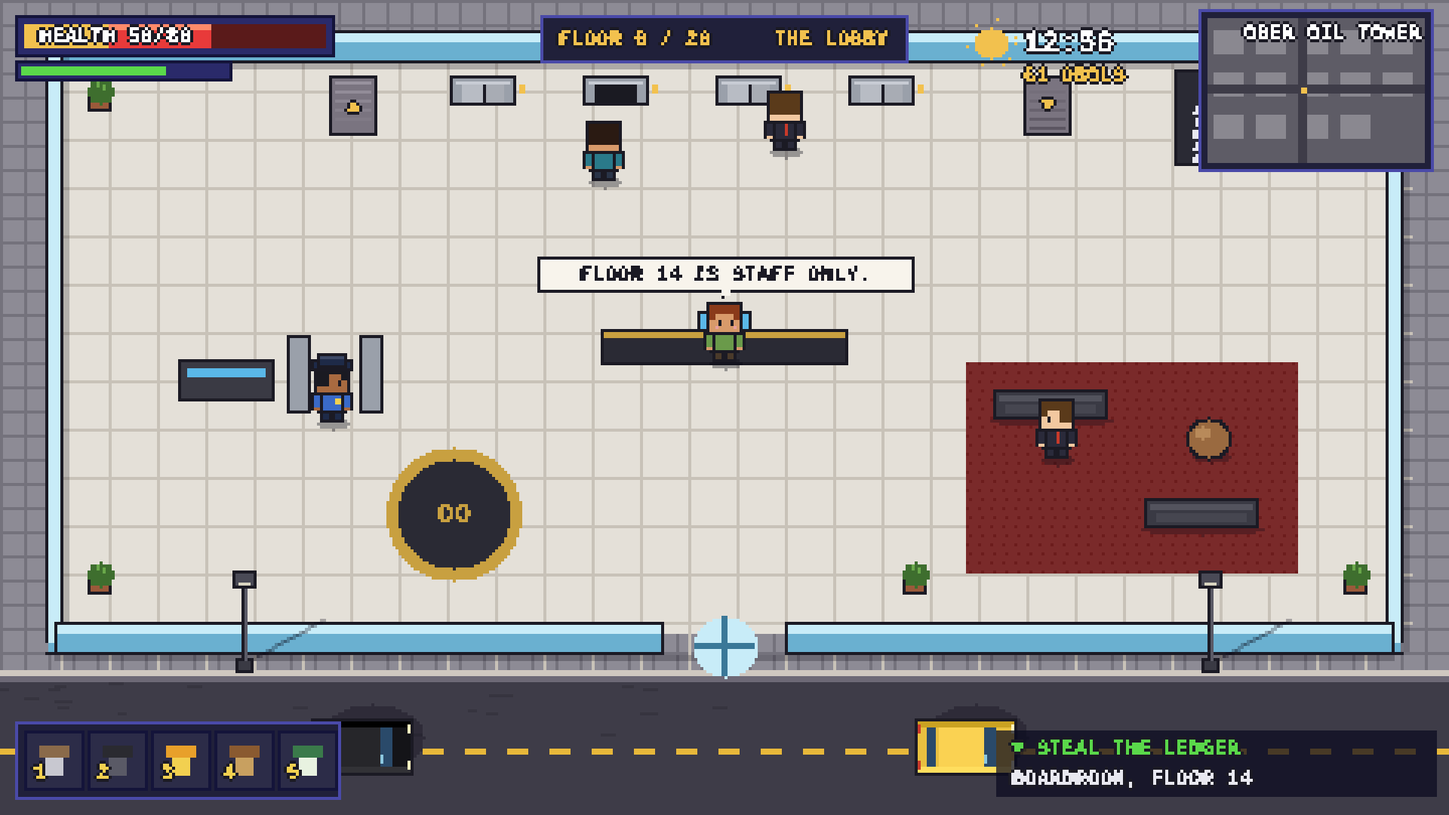
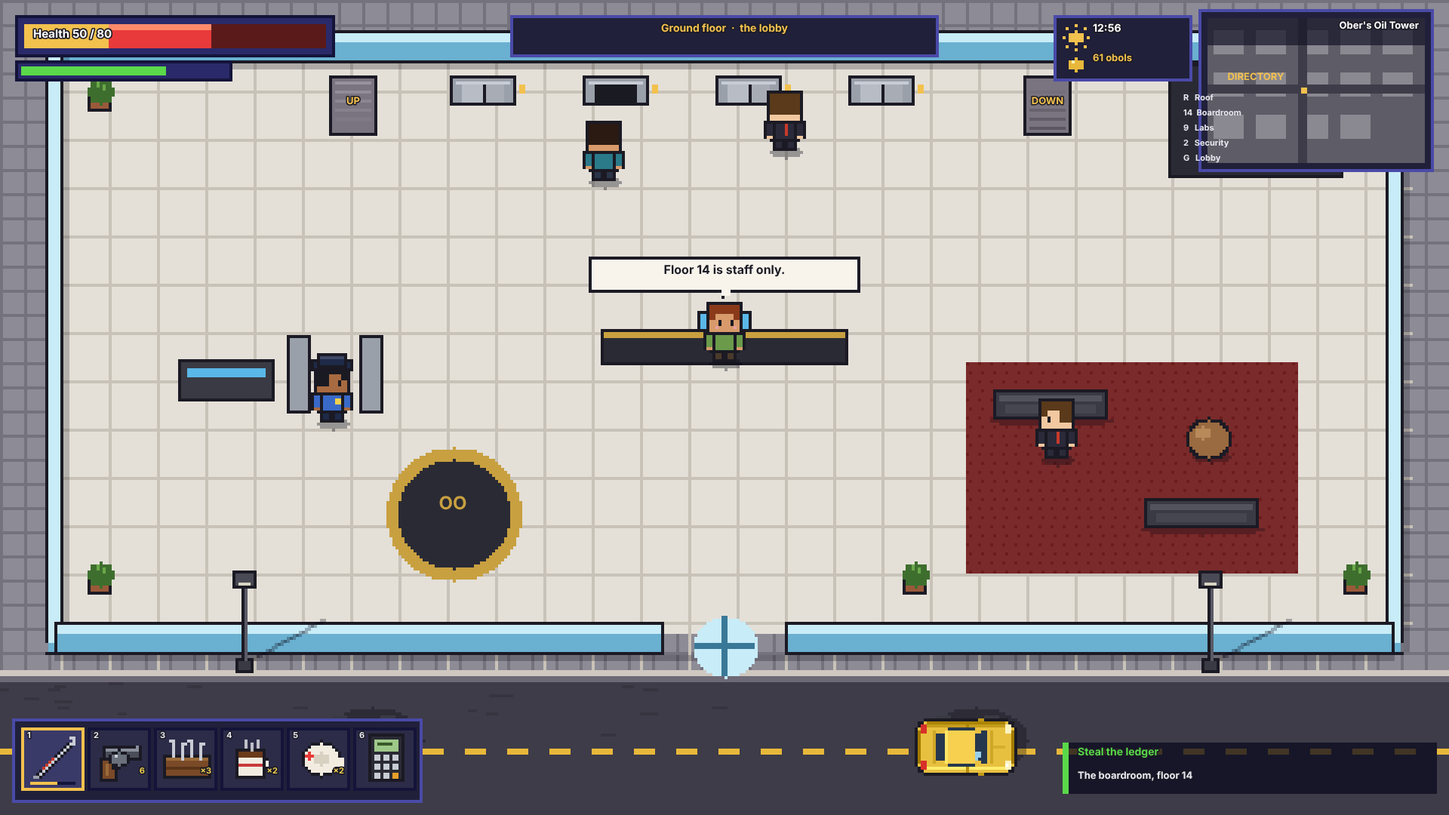
Art mock-up, round 2: legible text, compact HUD, detailed hotbar, better cars
- Text is drawn at full resolution in a clean bold face with an outline,
  over the scaled-up pixel art, instead of pixelated
- Time and obols in one small chip; a six-slot hotbar with detailed icons
  and counts
- New car models: chamfered bodies, shading, lamps, raked windscreens,
  glass, mirrors; sedan, hatchback, sports, taxi, cruiser, pickup, van, bus
- Smooth night light pools; screenshots regenerated

Claude-Session: https://claude.ai/code/session_01TDGC6Q79idfz2CwS4VYJ4q

diff --git a/mockups/sor2/index.html b/mockups/sor2/index.html
@@ -28,6 +28,7 @@
 const W = 480, H = 270, T = 16;
 const low = document.createElement('canvas'); low.width = W; low.height = H;
 let c = low.getContext('2d'); // reassigned to draw a scene into an offscreen canvas
+const LOWCTX = c;
 const screen = document.getElementById('screen'); const sc = screen.getContext('2d');
 sc.imageSmoothingEnabled = false;
 let time = 0;
@@ -53,20 +54,25 @@ const shadow = (cx, cy, rx, ry, a = 0.3) => { c.fillStyle = `rgba(10,8,20,${a})`
 // deterministic noise
 const hash = (x, y) => { let h = (x * 374761393 + y * 668265263) | 0; h = (h ^ (h >> 13)) * 1274126177; return ((h ^ (h >> 16)) >>> 0) / 4294967295; };
 
-// pixel text: system font rendered small, then thresholded to hard pixels
-const tcan = document.createElement('canvas'); tcan.width = 400; tcan.height = 20; const tc = tcan.getContext('2d', { willReadFrequently: true });
-function text(str, x, y, col = '#fff', { size = 8, align = 'left', outline = P.ink } = {}) {
-  tc.clearRect(0, 0, 400, 20);
-  tc.font = `bold ${size}px "Courier New", monospace`;
-  tc.textBaseline = 'top';
-  const w = Math.ceil(tc.measureText(str).width) + 2;
-  tc.fillStyle = '#fff'; tc.fillText(str, 1, 1);
-  const img = tc.getImageData(0, 0, w, size + 4);
-  const ox = align === 'center' ? Math.round(x - w / 2) : align === 'right' ? x - w : x;
-  const on = (i) => img.data[i * 4 + 3] > 110;
-  if (outline) for (let i = 0; i < w * (size + 4); i++) if (on(i)) { const px = i % w, py = (i / w) | 0; R(ox + px - 1, y + py, 3, 1, outline); R(ox + px, y + py - 1, 1, 3, outline); }
-  for (let i = 0; i < w * (size + 4); i++) if (on(i)) R(ox + (i % w), y + ((i / w) | 0), 1, 1, col);
-  return w;
+// Text stays legible: it isn't pixelated. Calls are queued while the scene draws, then drawn at full
+// resolution (×4) over the scaled-up pixel art, in a clean bold face with a dark outline.
+const SCALE = 4;
+let textQueue = [];
+function text(str, x, y, col = '#fff', { size = 6, align = 'left', outline = P.ink, weight = 700 } = {}) {
+  if (c !== LOWCTX) return 0; // nothing legible on the city far below
+  textQueue.push({ str, x, y, col, size, align, outline, weight });
+  return str.length * size * 0.62;
+}
+function flushText() {
+  for (const t of textQueue) {
+    const px = Math.round(t.size * 3);
+    sc.font = `${t.weight} ${px}px "Trebuchet MS", "Segoe UI", system-ui, sans-serif`;
+    sc.textAlign = t.align; sc.textBaseline = 'top';
+    const x = t.x * SCALE, y = t.y * SCALE;
+    if (t.outline) { sc.lineJoin = 'round'; sc.lineWidth = Math.max(3, px / 4.5); sc.strokeStyle = t.outline; sc.strokeText(t.str, x, y); }
+    sc.fillStyle = t.col; sc.fillText(t.str, x, y);
+  }
+  textQueue = [];
 }
 
 // ------------------------------------------------------------ ground
@@ -163,35 +169,78 @@ function desk(x, y, monitor = true) { shadow(x + 9, y + 9, 10, 2); box(x, y, 18,
 function cabinet(x, y) { box(x, y, 8, 10, '#8a92a0'); for (let k = 1; k < 10; k += 3) { R(x, y + k + 2, 8, 1, '#6a7280'); R(x + 3, y + k, 2, 1, '#c8ccd4'); } }
 function poolTable(x, y) { shadow(x + 15, y + 12, 17, 3); box(x, y, 30, 18, '#5a3a22'); R(x + 2, y + 2, 26, 14, '#2a7a4a'); for (const [a, b] of [[2, 2], [27, 2], [2, 15], [27, 15], [14, 2], [14, 15]]) R(x + a, y + b, 1, 1, P.ink); R(x + 8, y + 8, 1, 1, '#f8f8f8'); R(x + 20, y + 7, 1, 1, '#e83a3a'); R(x + 21, y + 9, 1, 1, '#f2d050'); }
 function elevator(x, y, open = false) { box(x, y, 20, 8, '#9aa0aa'); R(x + 1, y + 1, 18, 1, '#c8ccd4'); if (open) R(x + 3, y + 2, 14, 6, '#1a1a22'); else { R(x + 3, y + 2, 7, 6, '#b8bcc4'); R(x + 10, y + 2, 7, 6, '#a8acb4'); R(x + 10, y + 2, 1, 6, P.ink); } R(x + 22, y + 2, 2, 3, '#f2c14e'); }
-function stairs(x, y, up = true) { box(x, y, 14, 18, '#7a7480'); for (let k = 0; k < 6; k++) R(x + 1, y + 1 + k * 3, 12, 1, up ? shade('#7a7480', 30 - k * 6) : shade('#7a7480', -k * 6)); text(up ? '▲' : '▼', x + 7, y + 5, '#f2c14e', { size: 7, align: 'center' }); }
-function sign(x, y, str, col = '#2a2a34', fg = '#f2c14e') { const w = str.length * 5 + 6; box(x - w / 2, y, w, 9, col); text(str, x, y + 1, fg, { size: 7, align: 'center', outline: null }); }
+function stairs(x, y, up = true) { box(x, y, 14, 18, '#7a7480'); for (let k = 0; k < 6; k++) R(x + 1, y + 1 + k * 3, 12, 1, up ? shade('#7a7480', 30 - k * 6) : shade('#7a7480', -k * 6)); text(up ? 'UP' : 'DOWN', x + 7, y + 6, '#f2c14e', { size: 4.2, align: 'center' }); }
+function sign(x, y, str, col = '#2a2a34', fg = '#f2c14e') { const w = Math.round(str.length * 3.7 + 10); box(x - w / 2, y, w, 9, col); text(str, x, y + 1.6, fg, { size: 5.2, align: 'center', outline: null }); }
 
 // ------------------------------------------------------------ cars (top-down)
+const GLASS = '#26384e', GLINT = '#9ad0e8';
+/**
+ * A car, top-down, nose along `dir` ('v' down, 'u' up, 'h' right, 'l' left). Kinds: sedan, hatch,
+ * sports, taxi, cruiser, pickup, van, bus. Chamfered body, lit and shaded sides, bumpers, lamps,
+ * a raked windscreen with a glint, roof, side and rear glass, mirrors and door seams.
+ */
 function car(x, y, dir, col, kind = 'sedan') {
-  // dir: 'v' (vertical, nose down) or 'h' (horizontal, nose right)
-  const L = kind === 'van' ? 36 : kind === 'cruiser' ? 34 : kind === 'bus' ? 70 : 32;
-  const Wd = kind === 'bus' ? 20 : 17;
+  const [L, Wd] = { sedan: [32, 17], hatch: [27, 16], sports: [31, 17], taxi: [32, 17], cruiser: [34, 18], pickup: [36, 18], van: [36, 18], bus: [72, 22] }[kind];
+  const hl = L / 2, hw = Wd / 2;
   c.save();
   c.translate(Math.round(x), Math.round(y));
-  if (dir === 'h') { c.rotate(-Math.PI / 2); }
-  shadow(3, 3, Wd / 2 + 2, L / 2 + 1, 0.3);
-  // wheels
-  for (const sy of [-L / 2 + 4, L / 2 - 8]) { R(-Wd / 2 - 1, sy, 2, 5, P.ink); R(Wd / 2 - 1, sy, 2, 5, P.ink); }
-  box(-Wd / 2, -L / 2, Wd, L, col);
-  R(-Wd / 2, -L / 2, 2, L, shade(col, 30)); R(Wd / 2 - 2, -L / 2, 2, L, shade(col, -30));
+  c.rotate({ v: 0, u: Math.PI, h: -Math.PI / 2, l: Math.PI / 2 }[dir] || 0);
+  shadow(2, 3, hw + 2, hl + 1, 0.32);
+  // tyres, peeking out under the arches
+  for (const ty of [-hl + 5, hl - 11]) { R(-hw - 1, ty, 3, 7, P.ink); R(hw - 2, ty, 3, 7, P.ink); R(-hw - 1, ty + 1, 1, 5, '#3a3a44'); R(hw + 1, ty + 1, 1, 5, '#3a3a44'); }
+  const body = (x0, y0, w, h, colr, k = 2) => { R(x0 + k, y0, w - 2 * k, h, colr); R(x0 + 1, y0 + 1, w - 2, h - 2, colr); R(x0, y0 + k, w, h - 2 * k, colr); };
+  body(-hw - 1, -hl - 1, Wd + 2, L + 2, P.ink, 3);
+  body(-hw, -hl, Wd, L, col);
+  // sides: lit on the left, shaded on the right; a crease down each flank
+  R(-hw + 1, -hl + 2, 1, L - 4, shade(col, 45)); R(hw - 2, -hl + 2, 1, L - 4, shade(col, -35)); R(hw - 1, -hl + 3, 1, L - 6, shade(col, -60));
+  // bumpers and lamps
+  R(-hw + 3, hl - 1, Wd - 6, 1, shade(col, -70)); R(-hw + 3, -hl, Wd - 6, 1, shade(col, -70));
+  R(-hw + 1, hl - 3, 3, 2, '#fff4c0'); R(hw - 4, hl - 3, 3, 2, '#fff4c0'); R(-hw + 2, hl - 3, 1, 1, '#ffffff');
+  R(-hw + 1, -hl + 1, 3, 2, '#d8302a'); R(hw - 4, -hl + 1, 3, 2, '#d8302a');
   if (kind === 'bus') {
-    R(-Wd / 2 + 2, -L / 2 + 2, Wd - 4, L - 4, '#e8e0cc');
-    for (let k = 0; k < 7; k++) R(-Wd / 2 + 1, -L / 2 + 6 + k * 8, 1, 5, '#4c8aa8'), R(Wd / 2 - 2, -L / 2 + 6 + k * 8, 1, 5, '#4c8aa8');
-    R(-4, L / 2 - 6, 8, 3, '#4c8aa8');
-    text('1', 0, -4, '#2f6b4f', { size: 7, align: 'center', outline: null });
+    body(-hw + 1, -hl + 1, Wd - 2, L - 2, '#ece4d0');
+    R(-hw, -hl + 6, 1, L - 10, '#2f6b4f'); R(hw - 1, -hl + 6, 1, L - 10, '#2f6b4f');
+    for (let k = 0; k < 8; k++) { R(-hw + 1, -hl + 8 + k * 7, 2, 5, GLASS); R(hw - 3, -hl + 8 + k * 7, 2, 5, GLASS); R(-hw + 1, -hl + 8 + k * 7, 1, 1, GLINT); }
+    R(-hw + 3, hl - 6, Wd - 6, 4, GLASS); R(-hw + 4, hl - 6, 4, 1, GLINT); // the big windscreen
+    box(-4, hl - 11, 8, 3, '#2f6b4f'); R(-1, hl - 11, 2, 3, '#f8f8f0'); // the route number
+    for (const ay of [-hl + 12, -hl + 30]) { box(-4, ay, 8, 7, '#b8b4a8'); R(-3, ay + 1, 6, 1, '#d8d4c8'); for (let k = 0; k < 3; k++) R(-3, ay + 3 + k * 1.5, 6, 1, '#8a8678'); } // roof units
+    c.restore();
+    return;
+  }
+  const front = { sedan: 9, hatch: 7, sports: 12, taxi: 9, cruiser: 9, pickup: 8, van: 5 }[kind];
+  const ws = hl - front; // where the windscreen meets the bonnet
+  const roofTop = { sedan: -hl + 9, hatch: -hl + 5, sports: -hl + 9, taxi: -hl + 9, cruiser: -hl + 9, pickup: ws - 13, van: -hl + 3 }[kind];
+  if (kind === 'sports') { R(-3, -hl + 1, 2, L - 2, '#f8f8f0'); R(1, -hl + 1, 2, L - 2, '#f8f8f0'); R(-hw + 2, -hl + 2, Wd - 4, 1, P.ink); } // stripes (under the glass) and a spoiler
+  // bonnet crease and boot line
+  R(0, ws + 2, 1, front - 5, shade(col, -18)); R(-hw + 3, ws + 1, Wd - 6, 1, shade(col, -25));
+  if (kind !== 'van' && kind !== 'pickup') R(-hw + 3, roofTop - 4, Wd - 6, 1, shade(col, -25));
+  // windscreen: raked, wider at the bottom, with a glint
+  for (let r = 0; r < 4; r++) { const w = Wd - 8 + (r >= 2 ? 2 : 0); R(-w / 2, ws - 4 + r, w, 1, GLASS); }
+  R(-hw + 4, ws - 4, 3, 1, GLINT); R(-hw + 5, ws - 3, 2, 1, GLINT);
+  // roof, side windows, mirrors, door seams
+  R(-hw + 3, roofTop, Wd - 6, ws - 4 - roofTop, shade(col, 16)); R(-hw + 3, roofTop, Wd - 6, 1, shade(col, 38));
+  R(-hw + 2, roofTop + 1, 1, ws - 5 - roofTop, GLASS); R(hw - 3, roofTop + 1, 1, ws - 5 - roofTop, GLASS);
+  R(-hw - 1, ws - 3, 1, 2, shade(col, -40)); R(hw, ws - 3, 1, 2, shade(col, -40));
+  R(-hw, Math.round((ws + roofTop) / 2), 2, 1, shade(col, -50)); R(hw - 2, Math.round((ws + roofTop) / 2), 2, 1, shade(col, -60));
+  if (kind === 'pickup') {
+    // a short cab, then the open bed with its ribs and tailgate
+    R(-hw + 3, roofTop - 3, Wd - 6, 2, GLASS);
+    R(-hw + 2, -hl + 2, Wd - 4, roofTop - 4 - (-hl + 2), shade(col, -45));
+    for (let k = -hl + 4; k < roofTop - 5; k += 3) R(-hw + 3, k, Wd - 6, 1, shade(col, -60));
+    box(-hw + 4, -hl + 6, 5, 4, '#8a6a40'); // a crate in the back
+  } else if (kind !== 'van') {
+    for (let r = 0; r < 3; r++) R(-(Wd - 8 + (r === 0 ? 0 : 0)) / 2, roofTop - 3 + r, Wd - 8, 1, GLASS); // rear window
   } else {
-    const glassY = kind === 'van' ? L / 2 - 9 : L / 2 - 10;
-    R(-Wd / 2 + 2, glassY, Wd - 4, 4, '#2a4a6a'); R(-Wd / 2 + 3, glassY, 3, 1, '#8cc8e0'); // windscreen (nose down)
-    R(-Wd / 2 + 2, -L / 2 + 3, Wd - 4, 3, '#2a4a6a'); // rear window
-    R(-Wd / 2 + 2, -L / 2 + 7, Wd - 4, glassY - (-L / 2 + 7), shade(col, 18)); // roof
-    if (kind === 'cruiser') { R(-Wd / 2 + 2, -2, Wd - 4, 2, '#2a2a34'); R(-Wd / 2 + 2, -2, (Wd - 4) / 2, 2, Math.sin(time * 10) > 0 ? '#ff3a3a' : '#5a1a1a'); R(0, -2, (Wd - 4) / 2, 2, Math.sin(time * 10) > 0 ? '#2a3a8a' : '#4a7aff'); R(-Wd / 2, -L / 2 + 10, Wd, 2, '#2a3a8a'); }
-    R(-Wd / 2 + 1, L / 2 - 1, 3, 1, '#fff6c0'); R(Wd / 2 - 4, L / 2 - 1, 3, 1, '#fff6c0');
-    R(-Wd / 2 + 1, -L / 2, 3, 1, '#c83a2a'); R(Wd / 2 - 4, -L / 2, 3, 1, '#c83a2a');
+    R(0, -hl + 1, 1, 2, shade(col, -40)); // rear doors
+    R(-hw + 3, roofTop + 4, Wd - 6, 1, shade(col, 0)); R(-hw + 3, roofTop + 12, Wd - 6, 1, shade(col, 0)); // roof ribs
+  }
+  if (kind === 'taxi') { box(-4, Math.round((roofTop + ws) / 2) - 2, 8, 3, '#2a2a30'); R(-3, Math.round((roofTop + ws) / 2) - 2, 6, 1, '#f2d050'); for (let k = -hw + 1; k < hw - 1; k += 2) R(k, 0, 1, 1, P.ink); }
+  if (kind === 'cruiser') {
+    R(-hw + 1, ws + 1, Wd - 2, front - 2, '#1e2a3a'); R(-hw + 1, -hl + 1, Wd - 2, roofTop - 4 + hl, '#1e2a3a'); // black bonnet and boot
+    const on = Math.sin(time * 10) > 0;
+    const mid = Math.round((roofTop + ws) / 2);
+    box(-hw + 3, mid - 1, Wd - 6, 2, '#2a2a34'); R(-hw + 3, mid - 1, (Wd - 6) / 2, 2, on ? '#ff3a3a' : '#6a1a1a'); R(0, mid - 1, (Wd - 6) / 2, 2, on ? '#3a6aff' : '#1a2a6a');
+    R(-hw, mid + 3, 1, 4, '#1e3a8a'); R(hw - 1, mid + 3, 1, 4, '#1e3a8a');
   }
   c.restore();
 }
@@ -234,33 +283,52 @@ function person(x, y, o, { face = 'down', step = 0, gun = false } = {}) {
   else if (face === 'left') { R(x - 3, y - 14, 1, 2, P.ink); R(x + 1, y - 19, 4, 7, o.hair); }
   if (o.hat) { box(x - 6, y - 20, 12, 2, o.hat); box(x - 4, y - 22, 8, 3, o.hat); R(x - 4, y - 22, 8, 1, shade(o.hat, 30)); }
 }
-function bubble(x, y, str) { const w = str.length * 5 + 8; box(x - w / 2, y - 12, w, 10, '#f8f4ec'); R(x - 1, y - 2, 3, 2, '#f8f4ec'); R(x - 1, y, 1, 1, P.ink); text(str, x, y - 11, P.ink, { size: 7, align: 'center', outline: null }); }
-function marker(x, y, letter, col = '#4ad84a') { box(x - 6, y - 12, 12, 11, '#f8f4ec'); text(letter, x, y - 12, col, { size: 9, align: 'center' }); R(x - 1, y - 1, 3, 2, '#f8f4ec'); }
+function bubble(x, y, str) { const w = Math.round(str.length * 3.3 + 12); box(x - w / 2, y - 12, w, 10, '#f8f4ec'); R(x - 1, y - 2, 3, 2, '#f8f4ec'); R(x - 1, y, 1, 1, P.ink); text(str, x, y - 10.4, P.ink, { size: 5.2, align: 'center', outline: null }); }
+function marker(x, y, letter, col = '#4ad84a') { box(x - 6, y - 12, 12, 11, '#f8f4ec'); text(letter, x, y - 11.5, col, { size: 6.5, align: 'center' }); R(x - 1, y - 1, 3, 2, '#f8f4ec'); }
 
 // ------------------------------------------------------------ the HUD (the Oberverse's own, in the new style)
+// detailed hotbar icons (16×16 pixel art)
+const ICONS = {
+  crowbar(x, y) { for (let k = 0; k < 11; k++) { R(x + 2 + k, y + 13 - k, 2, 2, P.ink); } for (let k = 0; k < 11; k++) R(x + 3 + k, y + 13 - k, 1, 1, '#c8ccd4'); for (let k = 0; k < 4; k++) R(x + 4 + k, y + 11 - k, 1, 1, '#c83a2a'); R(x + 13, y + 1, 2, 1, '#c8ccd4'); R(x + 14, y + 2, 1, 2, '#c8ccd4'); R(x + 12, y + 3, 1, 1, P.ink); R(x + 1, y + 14, 2, 1, '#9aa0aa'); },
+  revolver(x, y) { box(x + 2, y + 9, 4, 6, '#7a4a28'); R(x + 3, y + 10, 1, 4, '#9a6a3a'); box(x + 3, y + 5, 11, 3, '#4a4e58'); R(x + 3, y + 5, 11, 1, '#8a909c'); disc(x + 7, y + 8, 3, P.ink); disc(x + 7, y + 8, 2, '#6a707c'); R(x + 6, y + 7, 1, 1, '#c8ccd4'); R(x + 13, y + 4, 1, 1, '#8a909c'); R(x + 5, y + 11, 2, 1, P.ink); },
+  lockpick(x, y) { box(x + 1, y + 8, 14, 6, '#7a4a28'); R(x + 1, y + 8, 14, 1, '#9a6a3a'); R(x + 1, y + 11, 14, 1, '#5a3418'); for (let k = 0; k < 4; k++) { R(x + 3 + k * 3, y + 2 + (k % 2), 1, 6, '#c8ccd4'); R(x + 3 + k * 3 + (k % 2 ? 1 : -1), y + 2 + (k % 2), 1, 1, '#c8ccd4'); } },
+  coffee(x, y) { box(x + 3, y + 6, 8, 8, '#f2ece0'); R(x + 3, y + 6, 8, 2, '#6a3a1a'); R(x + 11, y + 8, 2, 4, P.ink); R(x + 12, y + 9, 1, 2, '#f2ece0'); R(x + 3, y + 10, 8, 1, '#c83a3a'); for (let k = 0; k < 3; k++) R(x + 5 + k * 2, y + 2 + (k % 2), 1, 3, 'rgba(255,255,255,0.7)'); },
+  bandage(x, y) { disc(x + 8, y + 8, 6, P.ink); disc(x + 8, y + 8, 5, '#f2ece0'); disc(x + 8, y + 8, 2, '#d8d0c0'); R(x + 13, y + 8, 3, 3, '#f2ece0'); R(x + 3, y + 7, 3, 1, '#e83a3a'); R(x + 4, y + 6, 1, 3, '#e83a3a'); },
+  calculator(x, y) { box(x + 3, y + 1, 10, 14, '#2a2a34'); R(x + 4, y + 2, 8, 4, '#9ec88a'); R(x + 5, y + 3, 5, 1, '#3a5a2a'); for (let r = 0; r < 3; r++) for (let k = 0; k < 3; k++) R(x + 4 + k * 3, y + 7 + r * 3, 2, 2, k === 2 && r === 2 ? '#e8a02a' : '#c8ccd4'); },
+};
 function hud({ place, clock = '12:56', money = 61, health = 0.62, quest, floor }) {
   // health and energy
   box(6, 6, 104, 12, '#2a2a6a', '#14143a'); R(8, 8, 100, 8, '#5a1a1a'); R(8, 8, 100 * health, 8, '#e83a3a'); R(8, 8, 100 * health, 2, '#ff8a6a');
   R(8, 8, Math.min(100 * health, 28), 8, '#f2c14e');
-  text(`HEALTH ${Math.round(80 * health)}/80`, 12, 8, '#fff', { size: 7 });
+  text(`Health ${Math.round(80 * health)} / 80`, 11, 9.4, '#fff', { size: 5 });
   box(6, 21, 70, 5, '#2a2a6a', '#14143a'); R(7, 22, 48, 3, '#5ad84a');
-  // clock & money
+  // clock and money: one compact chip by the minimap
   const night = +clock.slice(0, 2) >= 20 || +clock.slice(0, 2) < 6;
-  if (night) { disc(328, 14, 6, '#e8e8f8'); disc(331, 12, 5, '#14143a'); }
-  else { disc(328, 14, 5, '#f2c14e'); for (let k = 0; k < 8; k++) R(328 + Math.round(Math.cos(k) * 8), 14 + Math.round(Math.sin(k) * 8), 1, 1, '#f2c14e'); }
-  text(clock, 338, 8, '#fff', { size: 10 });
-  text(`${money} OBOLS`, 338, 21, '#f2c14e', { size: 7 });
+  box(350, 6, 44, 20, '#20203a', '#4a4aa8');
+  if (night) { disc(356, 12, 3, '#e8e8f8'); disc(358, 11, 2, '#20203a'); }
+  else { disc(356, 12, 2, '#f2c14e'); for (let k = 0; k < 8; k++) R(356 + Math.round(Math.cos(k * 0.785) * 4), 12 + Math.round(Math.sin(k * 0.785) * 4), 1, 1, '#f2c14e'); }
+  text(clock, 362, 7.6, '#fff', { size: 4.6 });
+  disc(356, 21, 2, '#e8b83a'); R(355, 20, 1, 1, '#fff2b0');
+  text(`${money} obols`, 362, 17.6, '#f2c14e', { size: 4.2 });
   // minimap
   box(398, 4, 76, 52, '#20203a', '#4a4aa8'); R(400, 6, 72, 48, '#5e5c66');
   for (let k = 0; k < 14; k++) R(402 + (k % 5) * 14, 10 + Math.floor(k / 5) * 14, 10, 8, '#8a8890');
   R(400, 28, 72, 3, '#3e3c48'); R(430, 6, 3, 48, '#3e3c48'); R(431, 29, 2, 2, '#f2c14e');
-  text(place, 472, 7, '#fff', { size: 7, align: 'right' });
-  // hotbar
-  box(6, 240, 106, 24, '#20203a', '#4a4aa8');
-  const items = [['#8a6a4a', '#c8c8d0'], ['#2a2a30', '#5a5a66'], ['#e8a02a', '#f2d050'], ['#8a5a30', '#c8a060'], ['#3a7a4a', '#e8f2e0']];
-  items.forEach(([a, b], i) => { box(9 + i * 21, 243, 18, 18, '#2c2c48', '#14143a'); R(13 + i * 21, 247, 10, 4, a); R(15 + i * 21, 251, 6, 6, b); text(String(i + 1), 10 + i * 21, 252, '#f2d050', { size: 7 }); });
-  if (quest) { R(330, 242, 146, 22, 'rgba(10,10,30,0.72)'); text(`▼ ${quest[0]}`, 334, 244, '#5ad84a', { size: 7 }); text(quest[1], 334, 254, '#e8e8f0', { size: 7 }); }
-  if (floor) { box(180, 6, 120, 14, '#20203a', '#4a4aa8'); text(floor, 240, 9, '#f2c14e', { size: 7, align: 'center' }); }
+  R(400, 6, 72, 9, 'rgba(20,20,40,0.7)');
+  text(place, 470, 7, '#fff', { size: 4.4, align: 'right' });
+  // hotbar: six slots, the first selected (with its wear), counts in the corner
+  const slots = [['crowbar', null, 0.63], ['revolver', '6'], ['lockpick', '×3'], ['coffee', '×2'], ['bandage', '×2'], ['calculator', null]];
+  box(5, 239, 134, 26, '#20203a', '#4a4aa8');
+  slots.forEach(([icon, count, wear], i) => {
+    const x = 8 + i * 22, y = 242;
+    box(x, y, 19, 19, i === 0 ? '#3a3a68' : '#2c2c48', i === 0 ? '#f2c14e' : '#14143a');
+    ICONS[icon](x + 2, y + 1);
+    if (wear !== undefined) { R(x + 2, y + 17, 15, 1, '#14143a'); R(x + 2, y + 17, Math.round(15 * wear), 1, '#f2c14e'); }
+    text(String(i + 1), x + 1, y + 0.4, '#e8e8f0', { size: 3.6 });
+    if (count) text(count, x + 18, y + 12, '#f2d050', { size: 3.8, align: 'right' });
+  });
+  if (quest) { R(352, 246, 124, 17, 'rgba(10,10,30,0.75)'); R(352, 246, 2, 17, '#5ad84a'); text(quest[0], 357, 247.5, '#5ad84a', { size: 4.6 }); text(quest[1], 357, 255.3, '#e8e8f0', { size: 4.2 }); }
+  if (floor) { box(170, 6, 140, 12, '#20203a', '#4a4aa8'); text(floor, 240, 7.6, '#f2c14e', { size: 4.6, align: 'center' }); }
 }
 
 // ------------------------------------------------------------ scene: the street
@@ -288,7 +356,7 @@ function streetGround(ox = 0, oy = 0, people = true) {
   wallV(4, 6, 98, 'brick'); wallV(158, 6, 98, 'brick');
   wallH(6, 160, 98, 'brick', { gaps: [[64, 78]], windows: [20, 36, 100, 120, 136] });
   door(65, 98, true);
-  counter(96, 30, 56, 7); for (let k = 0; k < 5; k++) R(100 + k * 10, 31, 6, 3, ['#e8c890', '#c87a4a', '#f2e8d0', '#e8a0b0', '#c8a060'][k]);
+  counter(100, 30, 54, 7); for (let k = 0; k < 5; k++) R(100 + k * 10, 31, 6, 3, ['#e8c890', '#c87a4a', '#f2e8d0', '#e8a0b0', '#c8a060'][k]);
   box(126, 12, 22, 6, '#5a5a66'); R(128, 13, 4, 3, '#e86a2a'); // the oven
   roundTable(60, 46); chair(50, 43); chair(66, 43); roundTable(132, 60); chair(121, 57); chair(139, 57);
   roundTable(96, 72); chair(86, 69); chair(102, 69); plant(150, 82); plant(10, 82);
@@ -323,21 +391,21 @@ function streetGround(ox = 0, oy = 0, people = true) {
 function sceneStreet() {
   streetGround();
   // traffic: a bus, a cruiser with its lights going, cars in both directions; one wreck
-  car(196, 40, 'v', '#e8e8f0', 'van'); car(220, 236, 'v', '#2a8aa8'); car(196, 228, 'v', '#c8402a');
-  car(70, 134, 'h', '#3a6ac8', 'cruiser'); car(110, 134, 'h', '#e8c040'); car(330, 160, 'h', '#5a5a66'); car(290, 160, 'h', '#e83a3a');
+  car(196, 40, 'v', '#e8e8f0', 'van'); car(220, 236, 'u', '#2a8aa8', 'hatch'); car(196, 228, 'v', '#c8402a', 'pickup');
+  car(66, 134, 'h', '#f2f2f0', 'cruiser'); car(112, 134, 'h', '#e8c040', 'taxi'); car(330, 162, 'l', '#5a5a66'); car(286, 162, 'l', '#e83a3a', 'sports');
   car(420, 134, 'h', '#2f6b4f', 'bus');
-  car(276, 40, 'v', '#4ab0c8'); car(312, 40, 'v', '#e8a040');
+  car(276, 40, 'u', '#4ab0c8', 'hatch'); car(312, 40, 'u', '#e8a040'); car(348, 84, 'u', '#3a8a4a', 'sports');
   // people
   person(208, 146, OUT.player, { face: 'right', gun: true });
   person(226, 140, OUT.gang, { face: 'left' });
   person(150, 146, OUT.cop, { face: 'right', step: time * 8 });
-  person(124, 46, OUT.mags, { face: 'down' }); bubble(124, 24, 'MORE TEA?');
+  person(138, 46, OUT.mags, { face: 'down' }); bubble(138, 24, 'More tea, love?');
   person(60, 64, OUT.lady, { face: 'up' }); person(130, 82, OUT.kid, { face: 'up' });
   person(62, 116, OUT.worker, { step: time * 8, face: 'right' }); person(380, 118, OUT.lady, { face: 'left', step: time * 7 });
   person(300, 228, OUT.exec, { face: 'down' }); person(40, 236, OUT.cop, { face: 'down' }); person(410, 40, OUT.gang, { face: 'down' });
   // a scuffle's aftermath
   for (let k = 0; k < 14; k++) R(214 + hash(k, 1) * 14, 156 + hash(2, k) * 6, 2, 1, '#8a1a1a');
-  hud({ place: 'HALVERMOUTH', quest: ['ROUGH UP ARTHUR\'S DEBTOR', 'RETURN TO THE ABACUS'] });
+  hud({ place: 'Halvermouth', quest: ['Rough up Arthur\'s debtor', 'Return to the Abacus'] });
 }
 
 // ------------------------------------------------------------ scene: the Abacus at night (lighting)
@@ -351,9 +419,9 @@ function sceneBar() {
   counter(60, 40, 120, 8, '#3a2a20', '#8a6a40'); for (let k = 0; k < 9; k++) stool(66 + k * 13, 52);
   for (let k = 0; k < 10; k++) box(64 + k * 11, 30, 4, 6, ['#3a8a4a', '#8a3a2a', '#c8a040', '#4a6ac8'][k % 4]);
   poolTable(120, 100); roundTable(230, 60); chair(220, 57); chair(236, 57); roundTable(250, 130); chair(240, 127); chair(256, 127);
-  sofa(320, 40, 40, '#5a2a5a'); desk(340, 80); cabinet(400, 30); box(360, 120, 40, 30, '#2a2a34'); text('Σ', 380, 128, '#5ad84a', { size: 12, align: 'center', outline: null });
+  sofa(320, 40, 40, '#5a2a5a'); desk(340, 80); cabinet(400, 30); box(360, 120, 40, 30, '#2a2a34'); text('Σ', 380, 126, '#5ad84a', { size: 10, align: 'center', outline: null });
   person(110, 36, OUT.gang, { face: 'down' }); person(250, 80, OUT.gang, { face: 'left' }); person(275, 150, OUT.gang, { face: 'up' });
-  person(350, 72, OUT.arthur, { face: 'down' }); bubble(350, 50, 'DO THE MATHS!');
+  person(350, 72, OUT.arthur, { face: 'down' }); bubble(350, 50, 'Do the maths!');
   person(228, 196, OUT.player, { face: 'up' }); person(150, 128, OUT.worker, { face: 'right' });
   lamp(120, 194, true); lamp(330, 194, true);
   car(380, 222, 'h', '#2a8a4a');
@@ -370,7 +438,7 @@ function sceneBar() {
   glow(120, 166, 34, '255,220,140', 0.25); glow(330, 166, 34, '255,220,140', 0.25); glow(380, 135, 26, '90,255,120', 0.3); glow(120, 60, 50, '255,160,90', 0.18);
   c.globalCompositeOperation = 'source-over';
   sign(230, 192 - 14, 'THE ABACUS', '#14142a', '#5ad84a');
-  hud({ place: 'THE SUMPS', clock: '23:40', money: 61, health: 0.38, quest: ['SETTLE THE TAB', 'TALK TO ARTHUR'] });
+  hud({ place: 'The Sumps', clock: '23:40', money: 61, health: 0.38, quest: ['Settle the tab', 'Talk to Arthur'] });
 }
 
 // ------------------------------------------------------------ scene: Ober's Oil Tower (multi-level)
@@ -420,8 +488,8 @@ function sceneTower(floor) {
     const hx = 150 + Math.sin(time) * 4, hy = 92;
     box(hx, hy, 34, 14, '#2a2a34'); R(hx + 2, hy + 2, 12, 10, '#8cc8e0'); box(hx + 34, hy + 5, 20, 4, '#2a2a34');
     c.fillStyle = 'rgba(200,200,210,0.5)'; c.save(); c.translate(hx + 17, hy + 7); c.rotate(time * 18); c.fillRect(-30, -1, 60, 2); c.restore();
-    person(120, 180, OUT.player, { face: 'up' }); person(220, 186, OUT.exec, { face: 'left' }); bubble(220, 162, 'YOUR RIDE, SIR.');
-    hud({ place: 'OBER OIL TOWER', floor: 'ROOF  ·  FLOOR R / 20', quest: ['MEET SIR MONEYBUCKS', 'ON THE HELIPAD'] });
+    person(120, 180, OUT.player, { face: 'up' }); person(220, 186, OUT.exec, { face: 'left' }); bubble(220, 162, 'Your ride, sir.');
+    hud({ place: 'Ober\'s Oil Tower', floor: 'The roof  ·  floor R of 20', quest: ['Meet Sir Moneybucks', 'On the helipad'] });
     return;
   }
   // an office floor: carpet, glass walls round the edge, cores (lifts, stairs), offices, an open plan
@@ -441,8 +509,8 @@ function sceneTower(floor) {
   plant(X + 340, Y + 172); cabinet(X + 228, Y + 168); cabinet(X + 238, Y + 168);
   person(X + 180, Y + 70, OUT.player, { face: 'down' });
   person(X + 241, Y + 46, OUT.exec, { face: 'up' }); person(X + 301, Y + 96, OUT.exec, { face: 'up' }); person(X + 271, Y + 146, OUT.lady, { face: 'right' });
-  person(X + 70, Y + 150, OUT.exec, { face: 'down' }); bubble(X + 70, Y + 126, 'Q3 IS... UNWELL.');
-  hud({ place: 'OBER OIL TOWER', floor: `FLOOR ${floor} / 20  ·  OBER'S OIL HQ`, quest: ['STEAL THE LEDGER', 'BOARDROOM, FLOOR 14'] });
+  person(X + 70, Y + 150, OUT.exec, { face: 'down' }); bubble(X + 70, Y + 126, 'Q3 is... unwell.');
+  hud({ place: 'Ober\'s Oil Tower', floor: `Floor ${floor} of 20  ·  Ober's Oil HQ`, quest: ['Steal the ledger', 'The boardroom, floor 14'] });
 }
 
 function sceneLobby() {
@@ -456,20 +524,20 @@ function sceneLobby() {
   // the core: four lifts, stairs both ways, the directory board
   for (let k = 0; k < 4; k++) elevator(150 + k * 44, 26, k === 1);
   stairs(110, 26, true); stairs(340, 26, false);
-  box(390, 24, 50, 30, '#2a2a34'); text('FLOORS', 415, 26, '#f2c14e', { size: 7, align: 'center', outline: null });
-  ['20 ROOF', '14 BOARD', '9  LABS', '2  SECURITY', 'G  LOBBY'].forEach((t, i) => text(t, 394, 34 + i * 4, '#e8e8f0', { size: 4, outline: null }));
+  box(388, 22, 56, 36, '#2a2a34'); text('DIRECTORY', 416, 24, '#f2c14e', { size: 4.2, align: 'center', outline: null });
+  ['R   Roof', '14  Boardroom', '9   Labs', '2   Security', 'G   Lobby'].forEach((t, i) => text(t, 392, 31 + i * 5, '#e8e8f0', { size: 3.8, outline: null }));
   // reception and security
   counter(200, 110, 80, 10, '#2a2a34', '#c8a040'); box(232, 104, 16, 5, '#5ab8e8');
   box(60, 120, 30, 12, '#3a3a44'); R(62, 122, 26, 3, '#5ab8e8'); box(96, 112, 6, 24, '#9aa0aa'); box(120, 112, 6, 24, '#9aa0aa'); // a scanner gate
   // a lounge, plants, the oil-company logo on the floor
   carpet(320, 120, 110, 70, '#7a2a2a'); sofa(330, 130, 36, '#3a3a44'); sofa(380, 166, 36, '#3a3a44'); roundTable(400, 145);
   for (const [x, y] of [[30, 30], [30, 190], [446, 190], [300, 190]]) plant(x, y);
-  disc(150, 170, 22, '#c8a040'); disc(150, 170, 18, '#2a2a34'); text('OO', 150, 165, '#c8a040', { size: 9, align: 'center', outline: null });
-  person(240, 120, OUT.lady, { face: 'down' }); bubble(240, 98, 'FLOOR 14 IS STAFF ONLY.');
+  disc(150, 170, 22, '#c8a040'); disc(150, 170, 18, '#2a2a34'); text('OO', 150, 164, '#c8a040', { size: 8, align: 'center', outline: null });
+  person(240, 120, OUT.lady, { face: 'down' }); bubble(240, 98, 'Floor 14 is staff only.');
   person(110, 140, OUT.cop, { face: 'right' }); person(200, 60, OUT.player, { face: 'up' }); person(260, 50, OUT.exec, { face: 'up' }); person(350, 152, OUT.exec, { face: 'left' });
   for (const [x, y] of [[80, 220], [400, 220]]) lamp(x, y);
   car(120, 248, 'h', '#141418'); car(320, 248, 'h', '#e8c040');
-  hud({ place: 'OBER OIL TOWER', floor: 'FLOOR G / 20  ·  THE LOBBY', quest: ['STEAL THE LEDGER', 'BOARDROOM, FLOOR 14'] });
+  hud({ place: 'Ober\'s Oil Tower', floor: 'Ground floor  ·  the lobby', quest: ['Steal the ledger', 'The boardroom, floor 14'] });
 }
 
 // ------------------------------------------------------------ scenes, drawing loop
@@ -486,10 +554,12 @@ for (const [id, s] of Object.entries(SCENES)) { const b = document.createElement
 function render() {
   // route every primitive through the current context
   c.setTransform(1, 0, 0, 1, 0, 0);
+  textQueue = [];
   R(0, 0, W, H, '#000');
   SCENES[scene].draw();
   sc.imageSmoothingEnabled = false;
   sc.drawImage(low, 0, 0, 1920, 1080);
+  flushText();
   document.getElementById('cap').textContent = SCENES[scene].cap;
   for (const b of nav.children) b.className = b.dataset.id === scene ? 'on' : '';
 }

diff --git a/docs/mockups/README.md b/docs/mockups/README.md
@@ -17,6 +17,9 @@ Owner's request: try making the Oberverse look like *Streets of Rogue 2*, and ex
 - **Real pixel art.** The world is drawn at a low resolution (480×270 here) and scaled up 4× with no smoothing, so every edge lands on a crisp pixel; 1-px dark outlines on everything; a palette with lit tops and shaded faces.
 - **Roofless buildings.** You always see into buildings from the street — walls are thin, with a light top edge and a short front face, like SoR. (Today interiors are separate maps you walk into.)
 - **Streets with depth:** kerbs with a lip and a face, dashed lines, crossings, drains, lamps with long diagonal shadows, cars with roofs and windscreens, drop shadows under everything.
+- **Text stays legible (owner, round 2):** the world is pixel art, but every word — HUD, signs, speech, quests — is drawn afterwards at full screen resolution in a clean bold face with a dark outline, never pixelated.
+- **A compact HUD (round 2):** the time and obols share one small chip by the minimap; a six-slot hotbar with detailed item icons (crowbar with its wear bar, revolver, lockpick roll, coffee, bandage, calculator) and counts.
+- **Better cars (round 2):** chamfered bodies, lit and shaded sides, bumpers, head- and tail-lamps, a raked windscreen with a glint, roof, side and rear glass, mirrors, door seams — and distinct kinds: sedan, hatchback, sports car (stripes), taxi (roof sign), police cruiser (black-and-white, light bar), pickup (open bed with a crate), van, and the No. 1 bus (route number, roof units).
 - **Chibi people:** big heads, small bodies, hats and badges that read at a glance.
 - **Lighting:** night is a dark wash with smooth pools of light cut out for lamps, windows and neon.
 - **HUD in the same style:** a chunky health bar, clock and money, a framed minimap, a hotbar, the current objective, and a floor indicator.
